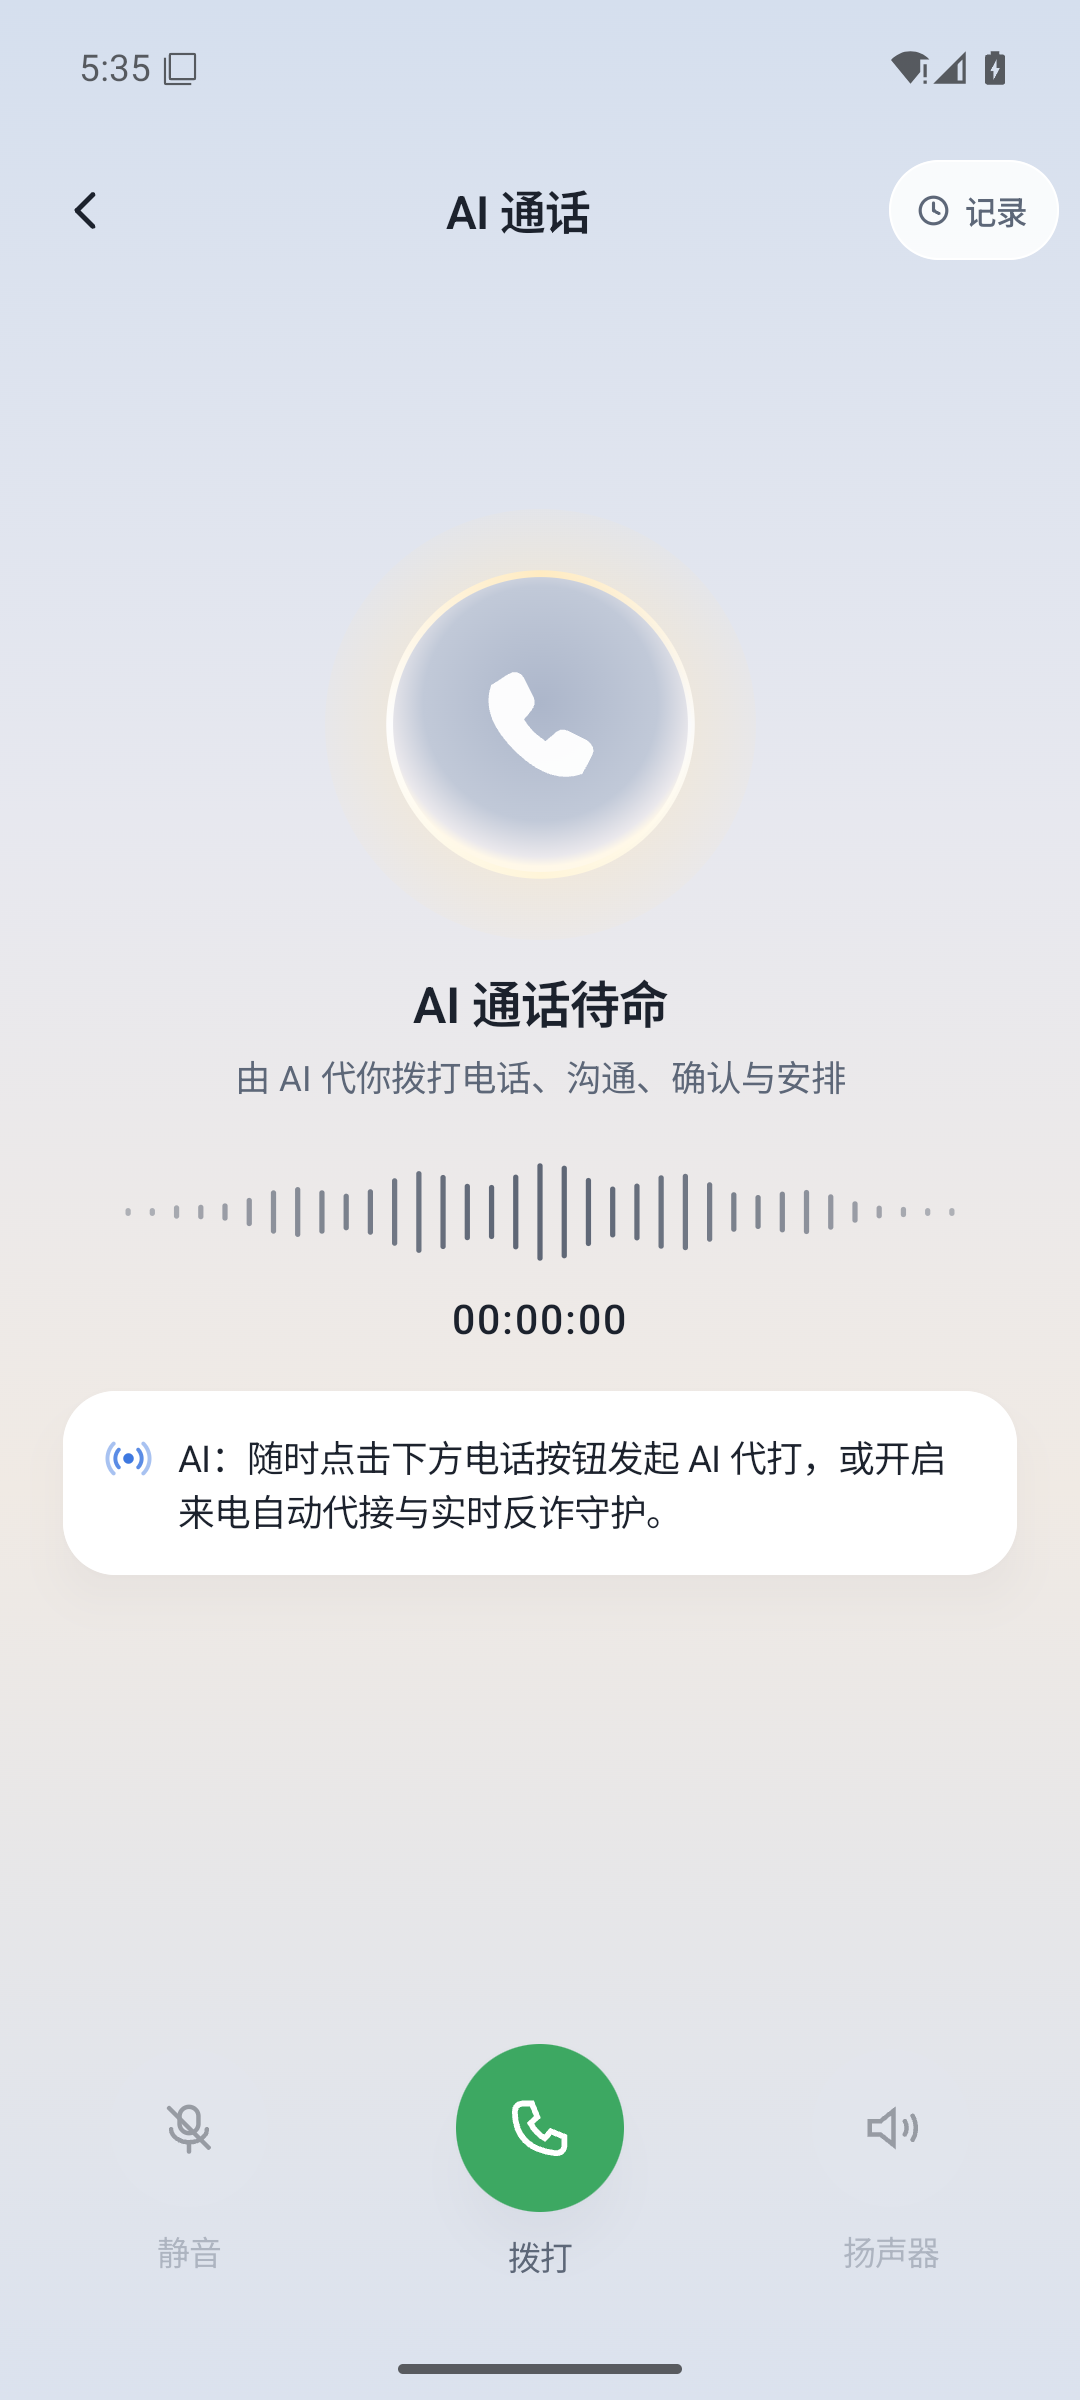
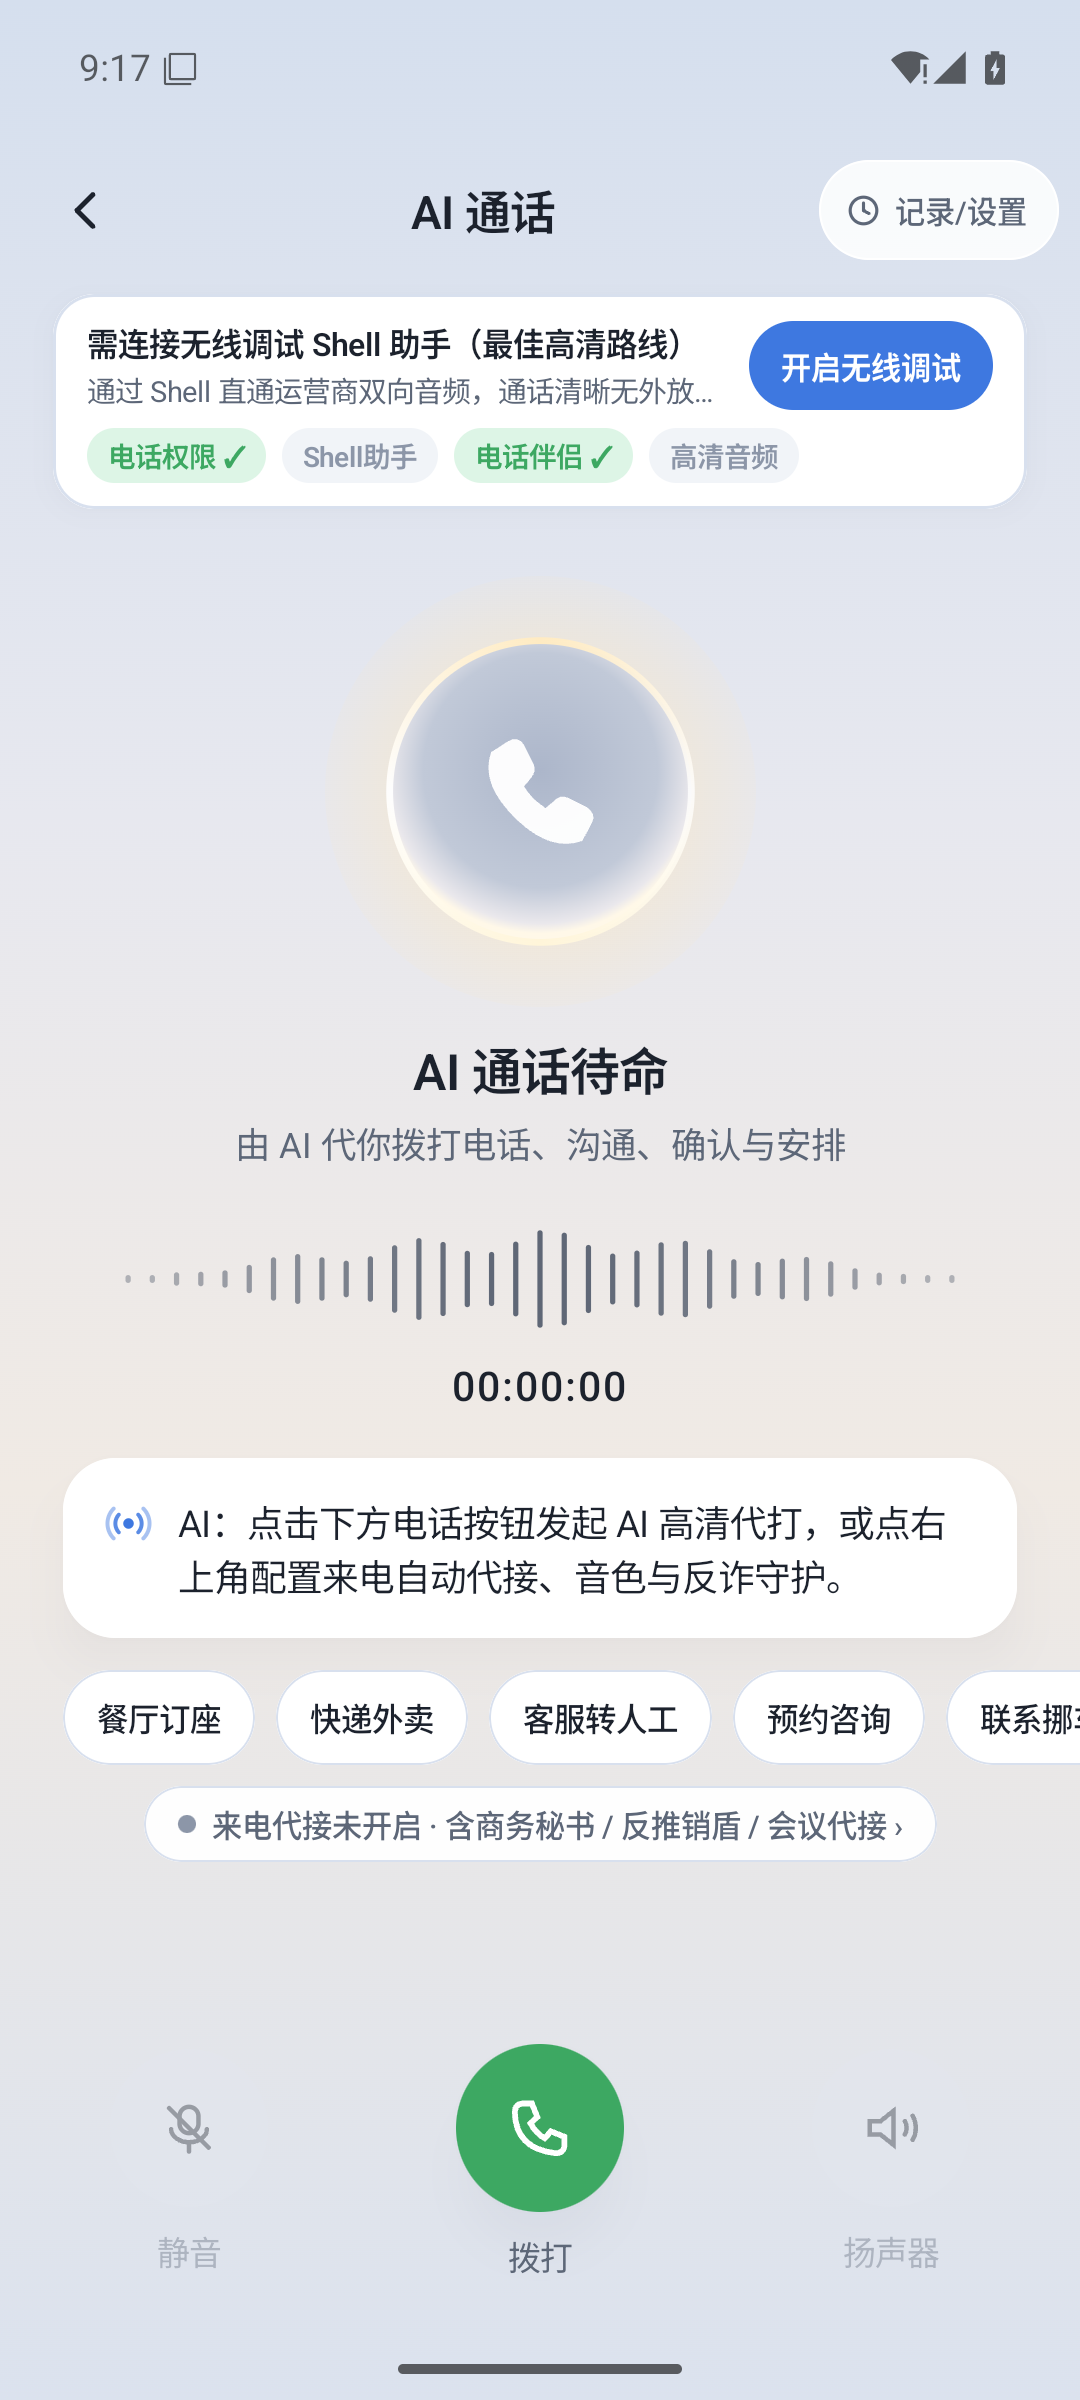
release(v9.0.1-public): update verified APKs, author attribution, voice+text UX, touch guard & sensitive safety gates

Changed region(s): [[0.0611, 0.4062, 1.0, 0.7812], [0.0306, 0.0625, 0.9472, 0.375]]

diff --git a/docs/index.html b/docs/index.html
@@ -86,7 +86,7 @@
 <body>
   <div class="wrap">
     <nav class="nav">
-      <div class="brand">Sol Next <span class="badge">v9.0.1 · 晨曦轨道</span></div>
+      <div class="brand">Sol Next <span class="badge">v9.0.1 · 作者：许昌北海医院张重阳</span></div>
       <div class="nav-links">
         <a href="#screens">四屏实拍</a>
         <a href="#features">六大突破</a>
@@ -98,8 +98,9 @@
     <img class="hero-img" src="media/v901/hero-banner-901.png" alt="Sol Next 9.0.1 Dawn Orbit Product Showcase" />
 
     <section class="hero-copy">
-      <h1>你的实时语音 AI 行动伙伴</h1>
-      <p>告别繁琐文字输入框与晦涩技术日志。Sol Next 9.0.1 融合全新「晨曦轨道」极简四屏语音交互、Google Android 16/17 智能 OS 前沿架构、真人级全游戏多指实时操控与任意云端模型 BYOK，真正做到零学习成本、拿来即用。</p>
+      <h1>你的实时语音与文字 AI 行动伙伴</h1>
+      <p style="font-weight: 600; color: var(--blue); margin-bottom: 12px;">作者：许昌北海医院张重阳 &nbsp;·&nbsp; 关注小红书：871348474 映像河南 即可联系作者</p>
+      <p>Sol Next 9.0.1 融合全新「晨曦轨道」极简四屏语音 + 文字双模交互、OS 自动识别启动满血引导（鸿蒙自动免无线调试）、Shell 助手高清内录 AI 接打电话、任务常亮屏与防误触保护层、付款/微信等敏感操作默认询问确认护栏、112ms 端侧神经语音合成与任意云端模型 BYOK，真正做到零学习成本、安全好用。</p>
       <div class="cta-row">
         <a class="btn btn-primary" href="https://github.com/chongyangzhang92-hub/Sol-Next/releases/download/v9.0.1-public/Sol-Next-v9.0.1-public-arm64.apk">⬇ 下载 v9.0.1 公开版 (ARM64 · 零内置 Key)</a>
         <a class="btn btn-secondary" href="https://github.com/chongyangzhang92-hub/Sol-Next/releases/download/v9.0.1-public/Sol-Next-v9.0.1-public-universal.apk">下载全架构通用版 (Universal)</a>
@@ -111,9 +112,9 @@
     <p class="subhead">100% 实机运行截图 · 极简可视化 · 零学习成本</p>
     <div class="grid-4">
       <div class="screen-card">
-        <img src="media/v901/screen-1-voice-home.png" alt="首页 · 语音交互" />
-        <h3>1. 首页 · 语音交互</h3>
-        <p>全屏晨曦轨道语音主场，零输入框；点击声波球或 ∞ 开启全双工实时对话。</p>
+        <img src="media/v901/screen-1-voice-home.png" alt="首页 · 语音与文字交互" />
+        <h3>1. 首页 · 语音与文字交互</h3>
+        <p>60fps 晨曦声波球 + 底部毛玻璃文字栏，支持连续全双工、多轮对话与一键切换。</p>
       </div>
       <div class="screen-card">
         <img src="media/v901/screen-2-task-execution.png" alt="任务执行" />
@@ -126,9 +127,9 @@
         <p>晨曦柔雾通话球、35 柱实时声纹、字幕泡、端侧反诈盾与一键悄悄话。</p>
       </div>
       <div class="screen-card">
-        <img src="media/v901/screen-4-settings-byok.png" alt="设置 · 模型配置" />
-        <h3>4. 设置 · 模型配置 (BYOK)</h3>
-        <p>三行配置任意云端模型，默认开启本地隐私防火墙与自动 OTA 升级。</p>
+        <img src="media/v901/screen-4-settings-byok.png" alt="设置 · 模型配置与执行保护" />
+        <h3>4. 设置 · 模型与执行保护</h3>
+        <p>三行 BYOK 配置、任务常亮屏、防误触护盾、付款/微信允许开关与作者联系入口。</p>
       </div>
     </div>
 
@@ -180,7 +181,8 @@
     </div>
 
     <footer>
-      <p>Sol Next 9.0.1 (Build 901) · Apache-2.0 · 公开版 100% 零内置密钥 · 致敬开源先驱 <a href="https://github.com/wangzan101/Mika">wangzan101/Mika</a></p>
+      <p><strong>作者：许昌北海医院张重阳</strong> · 关注小红书：871348474 映像河南 就可以联系作者</p>
+      <p style="margin-top:6px;">Sol Next 9.0.1 (Build 901) · Apache-2.0 · 公开版 100% 零内置密钥 · 致敬开源先驱 <a href="https://github.com/wangzan101/Mika">wangzan101/Mika</a></p>
     </footer>
   </div>
 </body>

diff --git a/README.md b/README.md
@@ -8,9 +8,11 @@
 
 # Sol Next 9.0.1 — 晨曦轨道 · 你的 AI 行动伙伴
 
-### 用自然对话，驱动真实的手机行动 · 率先落地 Android 16/17 智能 OS 架构
+### 用自然对话与文字，驱动真实的手机行动 · 率先落地 Android 16/17 智能 OS 架构
 
-<sub>全新 <code>9.0.1</code> 跨代架构（Build <code>901</code> · Android 10–16 / 16KB 页对齐 · 100% 零内置密钥 / 任意云端模型 BYOK · 致敬先驱 <code>wangzan101/Mika</code>）</sub>
+> **👨💻 作者：许昌北海医院张重阳** &nbsp;·&nbsp; **📕 联系作者：关注小红书 `871348474`（映像河南）**
+
+<sub>全新 <code>9.0.1</code> 跨代架构（Build <code>901</code> · Android 10–16 / 16KB 页对齐 · 自动识别鸿蒙系统免无线调试 · 100% 零内置密钥 / 任意云端模型 BYOK · 致敬先驱 <code>wangzan101/Mika</code>）</sub>
 
 <br/><br/>
 
@@ -28,8 +30,11 @@
 
 <br/>
 
+![Author](https://img.shields.io/badge/作者-许昌北海医院张重阳-D9A441?style=flat-square)
+![Xiaohongshu](https://img.shields.io/badge/小红书-871348474%20映像河南-FF2442?style=flat-square)
 ![Version 9.0.1](https://img.shields.io/badge/Release-v9.0.1--public%20(Build%20901)-3E78E0?style=flat-square)
-![Voice First](https://img.shields.io/badge/交互范式-全双工实时语音%20·%20零输入框-0ea5e9?style=flat-square)
+![Voice And Text](https://img.shields.io/badge/交互范式-全双工实时语音%20%2B%20晨曦文字输入-0ea5e9?style=flat-square)
+![Execution Guard](https://img.shields.io/badge/执行护栏-任务常亮屏%20·%20防误触%20·%20付款%2F微信先问后行-10b981?style=flat-square)
 ![Android 16/17](https://img.shields.io/badge/Android%2016%2F17-GenUI%20·%20Magic%20Cue%20·%20AppFunctions-10b981?style=flat-square)
 ![Real-Time Gaming](https://img.shields.io/badge/实时游戏代打-4指并发多点触控%20·%2060Hz-8b5cf6?style=flat-square)
 ![Any Cloud Model](https://img.shields.io/badge/云端大脑-任意模型%20BYOK%20·%20自动适配-f59e0b?style=flat-square)
@@ -58,9 +63,9 @@
 <table>
   <tr>
     <td align="center" width="25%">
-      <img src="docs/media/v901/screen-1-voice-home.png" alt="首页 · 语音交互" width="210" /><br/>
-      <b>1. 首页 · 语音交互</b><br/>
-      <sub>零文字输入框 · 点击声波球或 <code>∞</code> 全双工实时对话，张口即执行</sub>
+      <img src="docs/media/v901/screen-1-voice-home.png" alt="首页 · 语音与文字交互" width="210" /><br/>
+      <b>1. 首页 · 语音与文字交互</b><br/>
+      <sub>60fps 晨曦声波球 + 底部毛玻璃文字栏，张口或打字皆可瞬时执行</sub>
     </td>
     <td align="center" width="25%">
       <img src="docs/media/v901/screen-2-task-execution.png" alt="任务执行可视化" width="210" /><br/>
@@ -73,9 +78,9 @@
       <sub>晨曦柔雾通话球 + 35 柱实时声纹 + 字幕泡 + 实时反诈 & 悄悄话</sub>
     </td>
     <td align="center" width="25%">
-      <img src="docs/media/v901/screen-4-settings-byok.png" alt="设置 · 模型配置 BYOK" width="210" /><br/>
-      <b>4. 设置 · 模型与隐私 (BYOK)</b><br/>
-      <sub>三行极简配置任意云端模型，本地隐私防火墙与自动 OTA 一目了然</sub>
+      <img src="docs/media/v901/screen-4-settings-byok.png" alt="设置 · 模型配置与安全护栏" width="210" /><br/>
+      <b>4. 设置 · 模型与执行保护</b><br/>
+      <sub>三行 BYOK 配置、任务常亮屏、防误触保护与付款/微信敏感授权开关</sub>
     </td>
   </tr>
 </table>
@@ -194,7 +199,8 @@
 | **Suite 4 · DroidFish 国际象棋 + 未授权权限弹窗** | **自动授权 + 合法西西里防御开局** | 自动通过 Android 16 `PermissionController` 弹窗并对阵 Stockfish |
 | **Suite 5 · 4 项硬件触控手势考场** | **18.7 s · 4/4 首次尝试满分** | 点击 ✓ · 长按 `823ms / 0px 漂移` ✓ · 精准拖拽 ✓ · 双指放大 `1.63x` ✓ |
 | **Suite 6 · Android 16 `uid=2000` 默认后台独立虚拟屏** | **`24 ms` 截帧 · 内嵌可折叠实时预览卡** | 默认在独立后台屏并发运行系统设置与第三方应用，零遮挡步骤与时间线 |
-| **Suite 7 · 零语音 API 端侧神经语音 & 一键读屏翻译** | **`770 ms` 中文流式转写 · `573 ms` 端侧合成 · `4.5 s` 读屏翻译** | Public 零 Key 版仅配 DeepSeek Key 即秒开端侧流式语音；4.5s 输出 2×2 译文要点卡 |
+| **Suite 7 · 零语音 API 端侧神经语音 & 一键读屏翻译** | **`112 ms` 端侧神经合成 · `798 ms` 流式转写 · `4.5 s` 读屏翻译** | Public 零 Key 版仅配 DeepSeek Key 即秒开端侧流式语音 + 边生成边播报；4.5s 输出 2×2 译文要点卡 |
+| **Suite 8 · 执行护栏与敏感操作二次确认** | **任务常亮屏 + 主屏防误触护盾 + 付款/微信默认拦截确认** | 未开启允许前打开微信/付款自动弹窗询问（支持拒绝拦截 / 本次允许 / 始终允许此类） |
 | **工程质量、R8 & 16KB 安全校验** | **206 项单测全绿（Kotlin 168 + Rust 38）· 零 Fatal 崩溃** | R8 混淆瘦身 + `useLegacyPackaging=false` 真正 16KB 0% 无压缩对齐 + OTA 签名校验 + 零密钥审计全绿 |
 
 ---
@@ -227,8 +233,8 @@ Sol Next 衷心致敬开源先驱 [wangzan101/Mika](https://github.com/wangzan10
 3. **SHA-256 校验与零内置密钥审计**：
 
 ```text
-33bea509d0ffb4da9c6cbfeb2aba2708ed91b3deecfb29fdebb5376618c4df5e  Sol-Next-v9.0.1-public-arm64.apk
-1e2c641f8ffe4f2708243f89d732cc6aa06079877eecde11991e178496b07880  Sol-Next-v9.0.1-public-universal.apk
+1e680fff61f8e6f88beffa5ea6b1a9ddabea7aa88ee0823af3865e1ec7167a61  Sol-Next-v9.0.1-public-arm64.apk
+1bd82d6406c0b51712cb6fff25e4bfe3c8a4167772ec868799cdfb717f4d905d  Sol-Next-v9.0.1-public-universal.apk
 ```
 
 ```bash
@@ -239,5 +245,6 @@ unzip -l Sol-Next-v9.0.1-public-arm64.apk | grep -iE "distribution|sol-models|se
 ---
 
 <div align="center">
+<b>作者：许昌北海医院张重阳</b> &nbsp;·&nbsp; 关注小红书：<code>871348474</code>（映像河南）即可联系作者<br/>
 <sub>Apache-2.0 Open Source · Built with love for the Android AI OS future · Tribute to <a href="https://github.com/wangzan101/Mika">wangzan101/Mika</a></sub>
 </div>

diff --git a/README.en.md b/README.en.md
@@ -8,9 +8,11 @@
 
 # Sol Next 9.0.1 — Dawn Orbit · Your AI Action Partner
 
-### Speak Naturally. Drive Real Mobile Actions. Built for the Android 16/17 Intelligent OS Era.
+### Speak or Type Naturally. Drive Real Mobile Actions. Built for the Android 16/17 Intelligent OS Era.
 
-<sub>Next-Generation Voice-First Android 10–16 OS Agent (Build <code>901</code> · 16KB Page-Aligned · 100% Zero Built-In Keys / Universal BYOK · Tribute to <code>wangzan101/Mika</code>)</sub>
+> **👨💻 Author: 许昌北海医院张重阳 (Zhang Chongyang, Xuchang Beihai Hospital)** &nbsp;·&nbsp; **📕 Xiaohongshu (RedNote): `871348474` (映像河南)**
+
+<sub>Next-Generation Voice + Text Android 10–16 OS Agent (Build <code>901</code> · 16KB Page-Aligned · Auto-Detects HarmonyOS to Skip Wireless Debugging · Keep-Screen-On &amp; Touch Guard · Sensitive Payment/WeChat Confirmation Gate · 100% Zero Built-In Keys / Universal BYOK · Tribute to <code>wangzan101/Mika</code>)</sub>
 
 <br/><br/>
 
@@ -37,9 +39,9 @@ Sol Next 9.0.1 reinvents the mobile AI agent from the ground up with **zero lear
 <table>
   <tr>
     <td align="center" width="25%">
-      <img src="docs/media/v901/screen-1-voice-home.png" alt="Voice Home" width="210" /><br/>
-      <b>1. Voice-First Home</b><br/>
-      <sub>Zero text box · Tap the glowing orb or <code>∞</code> for full-duplex live voice</sub>
+      <img src="docs/media/v901/screen-1-voice-home.png" alt="Voice & Text Home" width="210" /><br/>
+      <b>1. Voice + Text Home</b><br/>
+      <sub>60fps Dawn voice orb + translucent text bar for effortless voice or typing</sub>
     </td>
     <td align="center" width="25%">
       <img src="docs/media/v901/screen-2-task-execution.png" alt="Task Execution" width="210" /><br/>
